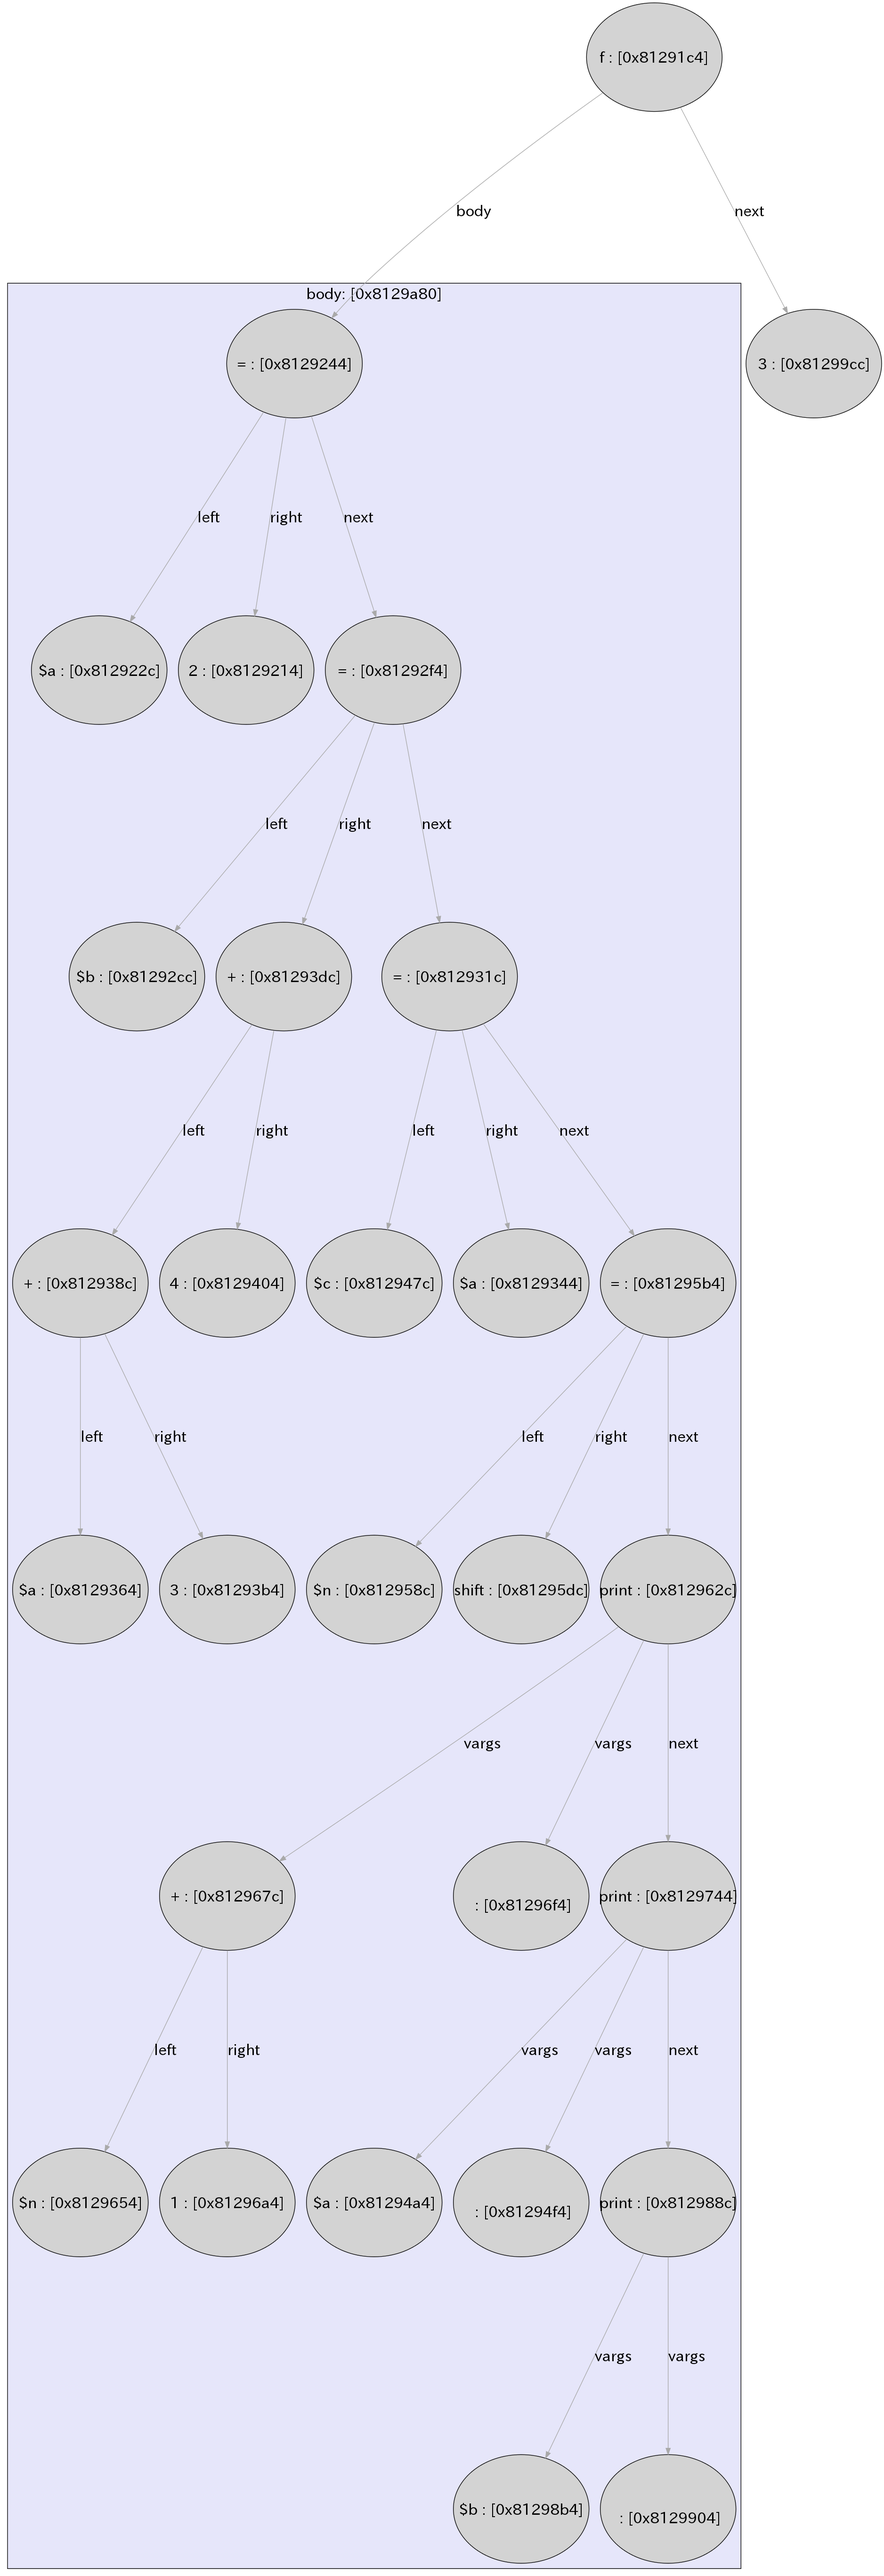
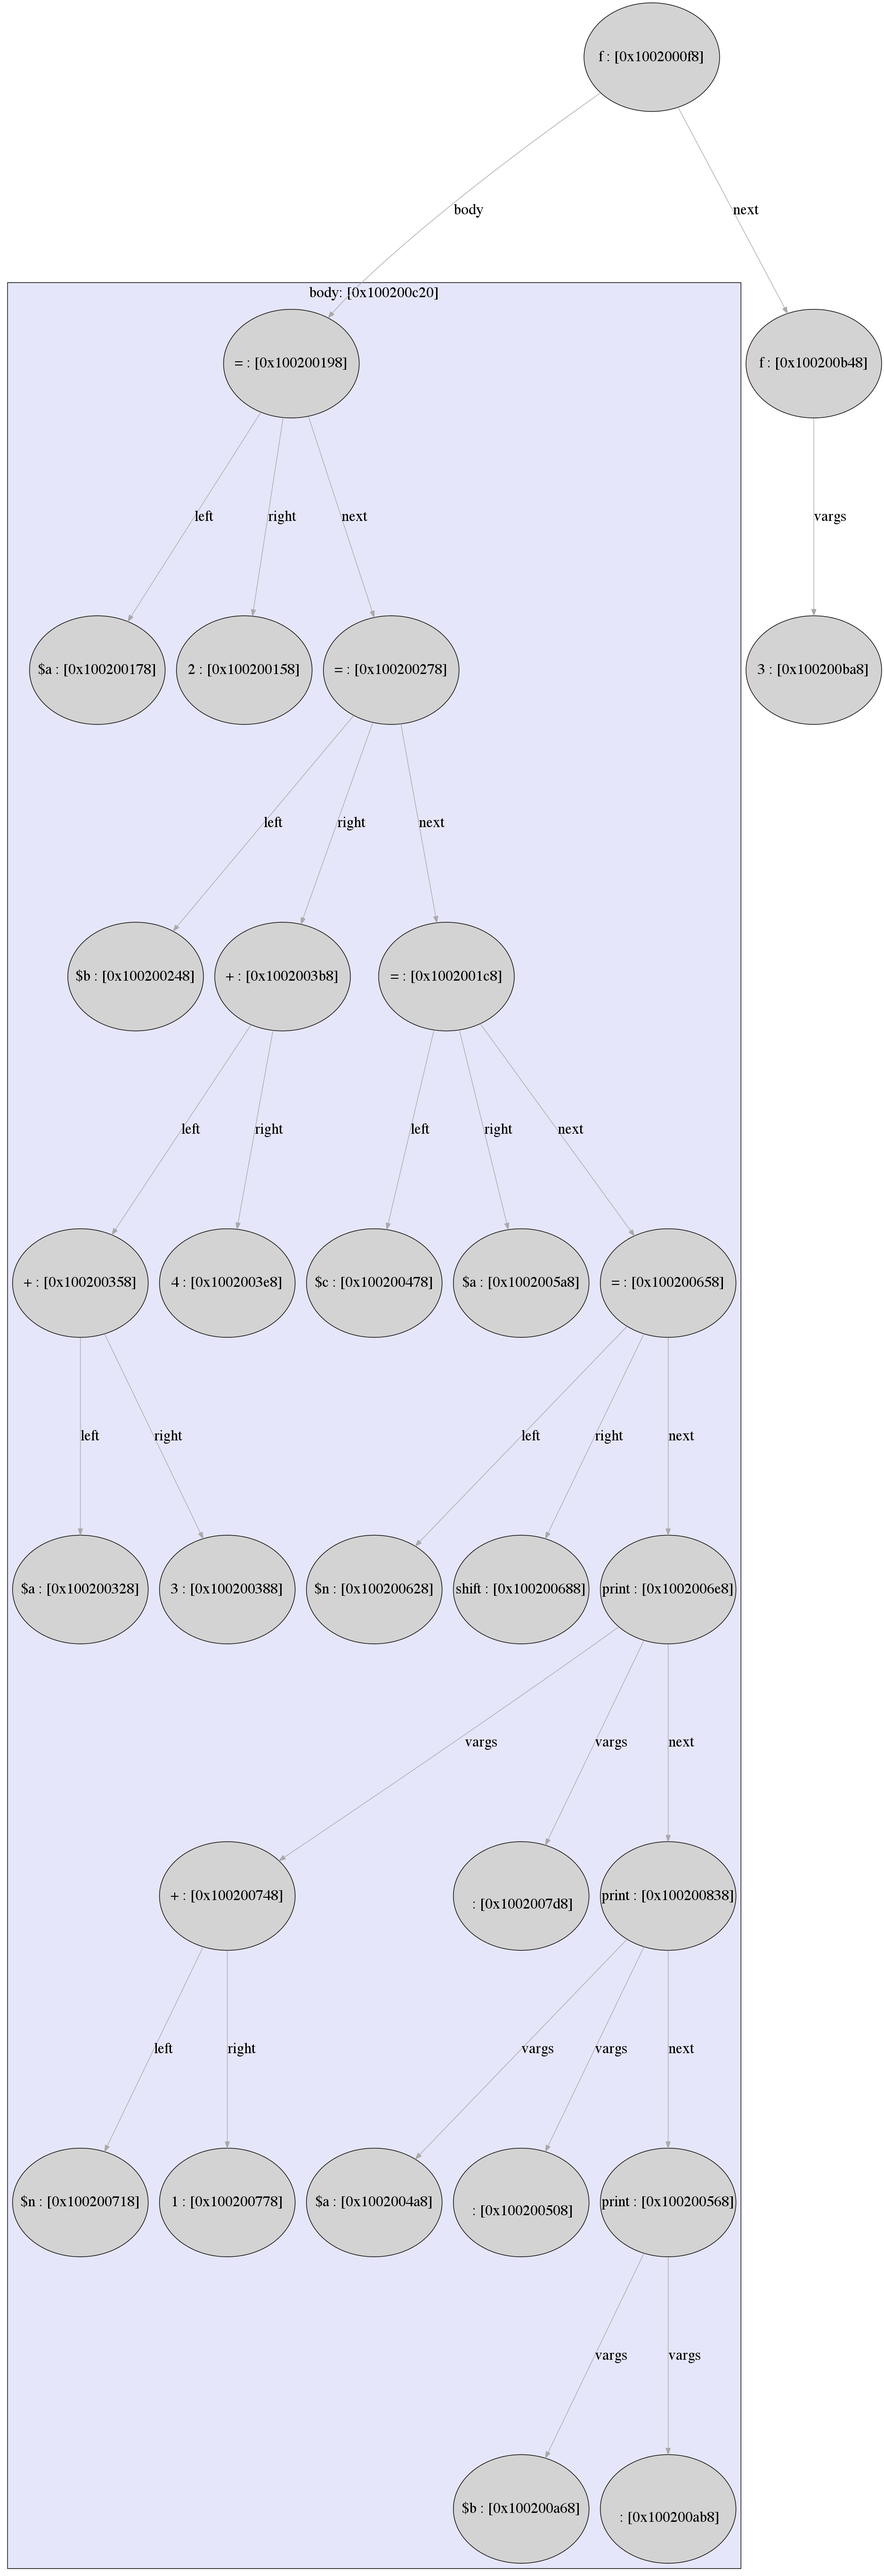
supported function argument

diff --git a/src/compiler.cpp b/src/compiler.cpp
@@ -3,7 +3,8 @@
 using namespace std;
 
 GPerlCompiler::GPerlCompiler(void) : dst(0), src(0), code_num(0),
-									 variable_index(0), func_index(0)
+									 variable_index(0), func_index(0),
+									 args_count(0)
 {
 	declared_vname = NULL;
 	for (int i = 0; i < MAX_REG_SIZE; i++) {
@@ -45,20 +46,37 @@ void GPerlCompiler::compile_(GPerlCell *path, bool isRecursive)
 	for (;p->vargs && isRecursive; p = p->vargs) {
 		//path : PrintDecl
 		compile_(p->vargs, false);
-		//add WRITE CODE for Print Stmt
-		switch (reg_type[0]) {
-		case Int:
-			code = createiWRITE();
-			addVMCode(code);
-			dumpVMCode(code);
-			break;
-		case String:
-			code = createsWRITE();
-			addVMCode(code);
-			dumpVMCode(code);
-			break;
-		default:
-			break;
+		if (path->type == PrintDecl) {
+			//add WRITE CODE for Print Stmt
+			switch (reg_type[0]) {
+			case Int:
+				code = createiWRITE();
+				addVMCode(code);
+				dumpVMCode(code);
+				break;
+			case String:
+				code = createsWRITE();
+				addVMCode(code);
+				dumpVMCode(code);
+				break;
+			default:
+				break;
+			}
+		} else if (path->type == Call) {
+			switch (reg_type[0]) {
+			case Int:
+				code = createiPUSH();
+				addVMCode(code);
+				dumpVMCode(code);
+				break;
+			case String:
+				code = createsPUSH();
+				addVMCode(code);
+				dumpVMCode(code);
+				break;
+			default:
+				break;
+			}
 		}
 		dst = 0;
 	}
@@ -115,6 +133,7 @@ void GPerlCompiler::compile_(GPerlCell *path, bool isRecursive)
 		jmp->jmp = code_num - cur_code_num;
 	} else if (path->type == Function) {
 		dst = 0;//reset dst number
+		args_count = 0;
 		vector<GPerlVirtualMachineCode *> tmp;
 		vector<GPerlVirtualMachineCode *> *func_code = new vector<GPerlVirtualMachineCode *>();
 		//escape current codes => tmp
@@ -371,6 +390,8 @@ GPerlVirtualMachineCode *GPerlCompiler::createVMCode(GPerlCell *c)
 	case Shift:
 		code->op = OPSHIFT;
 		code->dst = 0;
+		code->src = args_count;
+		args_count++;
 		break;
 	case Assign: {
 		code->op = OPLET;
@@ -499,6 +520,24 @@ GPerlVirtualMachineCode *GPerlCompiler::createsWRITE(void)
 	return code;
 }
 
+GPerlVirtualMachineCode *GPerlCompiler::createiPUSH(void)
+{
+	GPerlVirtualMachineCode *code = new GPerlVirtualMachineCode();
+	code->code_num = code_num;
+	code->op = OPiPUSH;
+	code_num++;
+	return code;
+}
+
+GPerlVirtualMachineCode *GPerlCompiler::createsPUSH(void)
+{
+	GPerlVirtualMachineCode *code = new GPerlVirtualMachineCode();
+	code->code_num = code_num;
+	code->op = OPsPUSH;
+	code_num++;
+	return code;
+}
+
 GPerlVirtualMachineCode *GPerlCompiler::createJMP(int jmp_num)
 {
 	GPerlVirtualMachineCode *code = new GPerlVirtualMachineCode();
@@ -611,6 +650,9 @@ void GPerlCompiler::dumpVMCode(GPerlVirtualMachineCode *code)
 	case OPLET:
 		DBG_P("L[%d] : OPLET [%s]:[%d], [%d]", code->code_num, code->name, code->dst, code->src);
 		break;
+	case OPSHIFT:
+		DBG_P("L[%d] : OPSHIFT [%d], [%d]", code->code_num, code->dst, code->src);
+		break;
 	case OPSET:
 		DBG_P("L[%d] : OPSET [%d], [%s]", code->code_num, code->dst, code->name);
 		break;
@@ -620,8 +662,11 @@ void GPerlCompiler::dumpVMCode(GPerlVirtualMachineCode *code)
 	case OPCALL:
 		DBG_P("L[%d] : OPCALL [%d], [%s]", code->code_num, code->dst, code->name);
 		break;
-	case OPSHIFT:
-		DBG_P("L[%d] : OPSHIFT [%d], [%s]", code->code_num, code->dst, code->name);
+	case OPiPUSH:
+		DBG_P("L[%d] : OPiPUSH [%d], [%d]", code->code_num, code->dst, code->src);
+		break;
+	case OPsPUSH:
+		DBG_P("L[%d] : OPsPUSH [%d], [%s]", code->code_num, code->dst, code->name);
 		break;
 	default:
 		break;

diff --git a/include/gperl.hpp b/include/gperl.hpp
@@ -64,6 +64,7 @@ typedef enum {
 	Function,
 	Call,
 	Shift,
+	Argument,
 } GPerlTypes;
 
 typedef enum {
@@ -104,6 +105,8 @@ typedef enum {
 	OPFUNCSET,
 	OPCALL,
 	OPSHIFT,
+	OPiPUSH,
+	OPsPUSH,
 } GPerlOpCodes;
 
 class GPerl {
@@ -280,6 +283,7 @@ public:
 	const char *declared_fname;
 	int variable_index;
 	int func_index;
+	int args_count;/* for shift */
 
 	GPerlCompiler(void);
 	GPerlVirtualMachineCode *compile(GPerlAST *ast);
@@ -294,6 +298,8 @@ public:
 	GPerlVirtualMachineCode *createRET(void);
 	GPerlVirtualMachineCode *createiWRITE(void);
 	GPerlVirtualMachineCode *createsWRITE(void);
+	GPerlVirtualMachineCode *createiPUSH(void);
+	GPerlVirtualMachineCode *createsPUSH(void);
 	GPerlVirtualMachineCode *createJMP(int jmp_num);
 	void addVMCode(GPerlVirtualMachineCode *code);
 	void dumpVMCode(GPerlVirtualMachineCode *code);
@@ -311,8 +317,21 @@ typedef struct _GPerlObject {
 	const char *name;
 } GPerlObject;
 
+#define MAX_ARGSTACK_SIZE 8
 class GPerlVirtualMachine {
 public:
+	GPerlObject *variable_memory[MAX_VARIABLE_NUM];
+	GPerlVirtualMachineCode *func_memory[MAX_FUNC_NUM];
+	GPerlObject *argstack[MAX_ARGSTACK_SIZE];
+	/*
+	union {
+		int idata[MAX_ARGSTACK_SIZE];
+		float fdata[MAX_ARGSTACK_SIZE];
+		char *sdata[MAX_ARGSTACK_SIZE];
+		void *pdata[MAX_ARGSTACK_SIZE];
+	} argstack;
+	*/
+
 	GPerlVirtualMachine();
 	void setToVariableMemory(const char *name, int idx);
 	void setToFuncMemory(GPerlVirtualMachineCode *func, int idx);

diff --git a/src/vm.cpp b/src/vm.cpp
@@ -1,12 +1,14 @@
 #include <gperl.hpp>
 
 using namespace std;
-static GPerlObject *variable_memory[MAX_VARIABLE_NUM];
-static GPerlVirtualMachineCode *func_memory[MAX_FUNC_NUM];
 
 GPerlVirtualMachine::GPerlVirtualMachine(void)
 {
-
+	//Set DEFAULT Object
+	for (int i = 0; i < MAX_ARGSTACK_SIZE; i++) {
+		GPerlObject *o = new GPerlObject();
+		argstack[i] = o;
+	}
 }
 
 #define L(op) L_##op
@@ -68,7 +70,7 @@ int GPerlVirtualMachine::run(GPerlVirtualMachineCode *codes)
 		&&L(OPJLE), &&L(OPiJLE), &&L(OPJE), &&L(OPiJE), &&L(OPJNE), &&L(OPiJNE),
 		&&L(OPRET), &&L(OPTHCODE), &&L(OPNOP),
 		&&L(OPiWRITE), &&L(OPsWRITE), &&L(OPPRINT), &&L(OPJMP), &&L(OPLET),
-		&&L(OPSET), &&L(OPFUNCSET), &&L(OPCALL), &&L(OPSHIFT),
+		&&L(OPSET), &&L(OPFUNCSET), &&L(OPCALL), &&L(OPSHIFT), &&L(OPiPUSH), &&L(OPsPUSH),
 		/*
 		  &&L(OPCALL), &&L(OPCMP), &&L(OPPOP), &&L(OPPUSH),
 		  &&L(OPSTORE), &&L(OPLOAD),
@@ -339,6 +341,18 @@ int GPerlVirtualMachine::run(GPerlVirtualMachineCode *codes)
 	}
 	CASE(OPSHIFT) {
 		DBG_P("OPSHIFT");
+		reg.pdata[0] = argstack[pc->src]->data.pdata;
+		pc++;
+		GOTO_NEXTOP();
+	}
+	CASE(OPiPUSH) {
+		DBG_P("OPiPUSH");
+		argstack[pc->src]->data.idata = reg.idata[0];
+		pc++;
+		GOTO_NEXTOP();
+	}
+	CASE(OPsPUSH) {
+		DBG_P("OPsPUSH");
 		pc++;
 		GOTO_NEXTOP();
 	}

diff --git a/src/parse.cpp b/src/parse.cpp
@@ -427,8 +427,6 @@ GPerlAST *GPerlParser::parse(vector<Token *> *tokens, vector<Token *>::iterator 
 			GPerlCell *p = new GPerlCell(Call);
 			p->rawstr = t->data;
 			p->fname = t->data;
-			//blocks.push_back(p);
-			//block_num++;
 			root = p;
 			break;
 		}
@@ -524,8 +522,8 @@ GPerlAST *GPerlParser::parse(vector<Token *> *tokens, vector<Token *>::iterator 
 			leftParenthesisFlag = true;
 			break;
 		case RightParenthesis:
-			fprintf(stderr, "[)]:CONNECT BLOCK <=> BLOCK\n");
 			if (block_num > 1) {
+				fprintf(stderr, "[)]:CONNECT BLOCK <=> BLOCK\n");
 				GPerlCell *to = blocks.at(block_num-1);
 				//fprintf(stderr, "to = [%p]\n", to);
 				//fprintf(stderr, "to = [%s]\n", to->rawstr.c_str());
@@ -546,7 +544,7 @@ GPerlAST *GPerlParser::parse(vector<Token *> *tokens, vector<Token *>::iterator 
 			fprintf(stderr, "BLOCKS SIZE = [%d]\n", size);
 			if (size == 1) {
 				GPerlCell *stmt = blocks.at(0);
-				if (root->type == PrintDecl) {
+				if (root->type == PrintDecl || root->type == Call) {
 					GPerlCell *v = root;
 					for (; v->vargs; v = v->vargs) {}
 					v->vargs = stmt;

diff --git a/src/token.cpp b/src/token.cpp
@@ -295,6 +295,9 @@ void GPerlTokenizer::dumpType(Token *token)
 	case Shift:
 		fprintf(stderr, "Shift");
 		break;
+	case Argument:
+		fprintf(stderr, "Argument");
+		break;
 	default:
 		break;
 	}
@@ -369,6 +372,8 @@ const char *GPerlTokenizer::getTypeName(GPerlTypes type)
 		return "Call";
 	case Shift:
 		return "Shift";
+	case Argument:
+		return "Argument";
 	default:
 		break;
 	}
@@ -425,6 +430,7 @@ void GPerlTokenizer::annotateTokens(vector<Token *> *tokens)
 			cur_type = Assign;
 		} else if (t->data == ";") {
 			t->type = SemiColon;
+			cur_type = SemiColon;
 		} else if (t->data == ",") {
 			t->type = Comma;
 		} else if (t->data == "(") {
